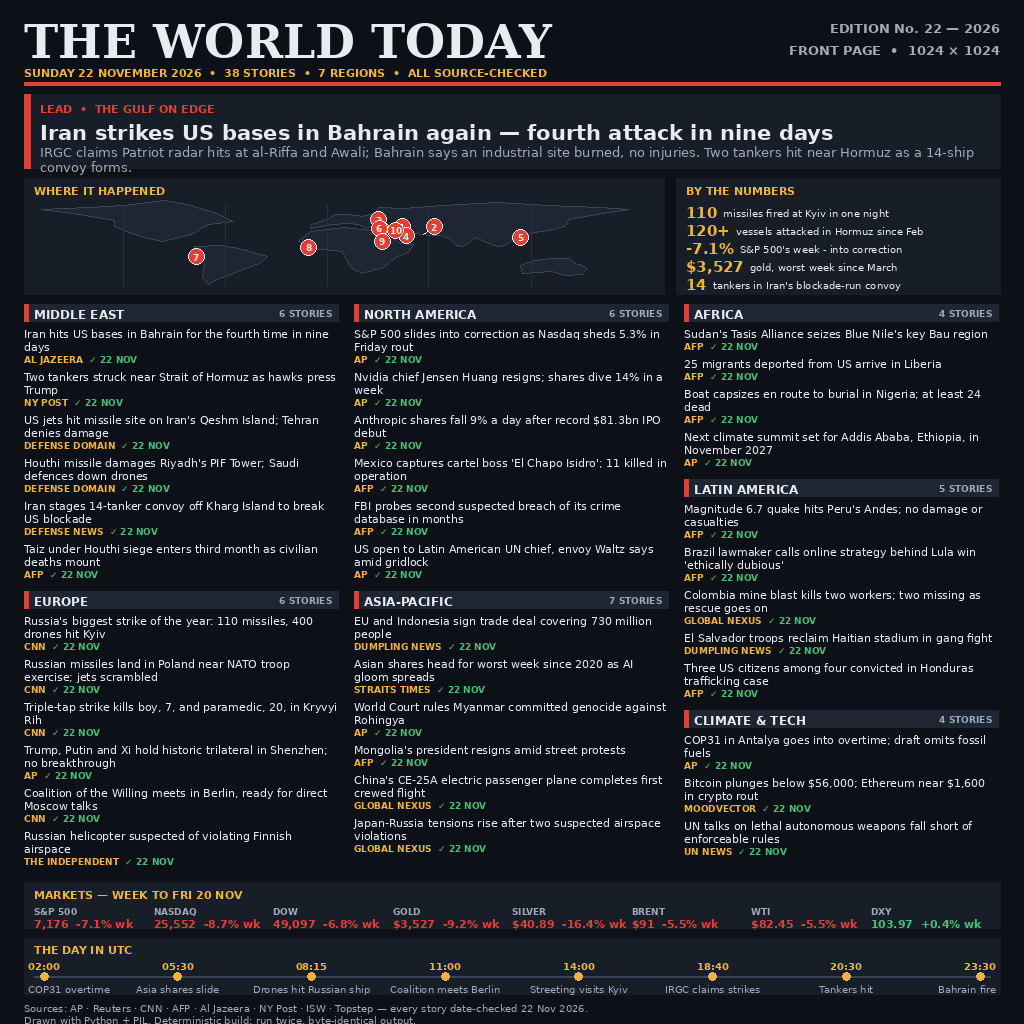
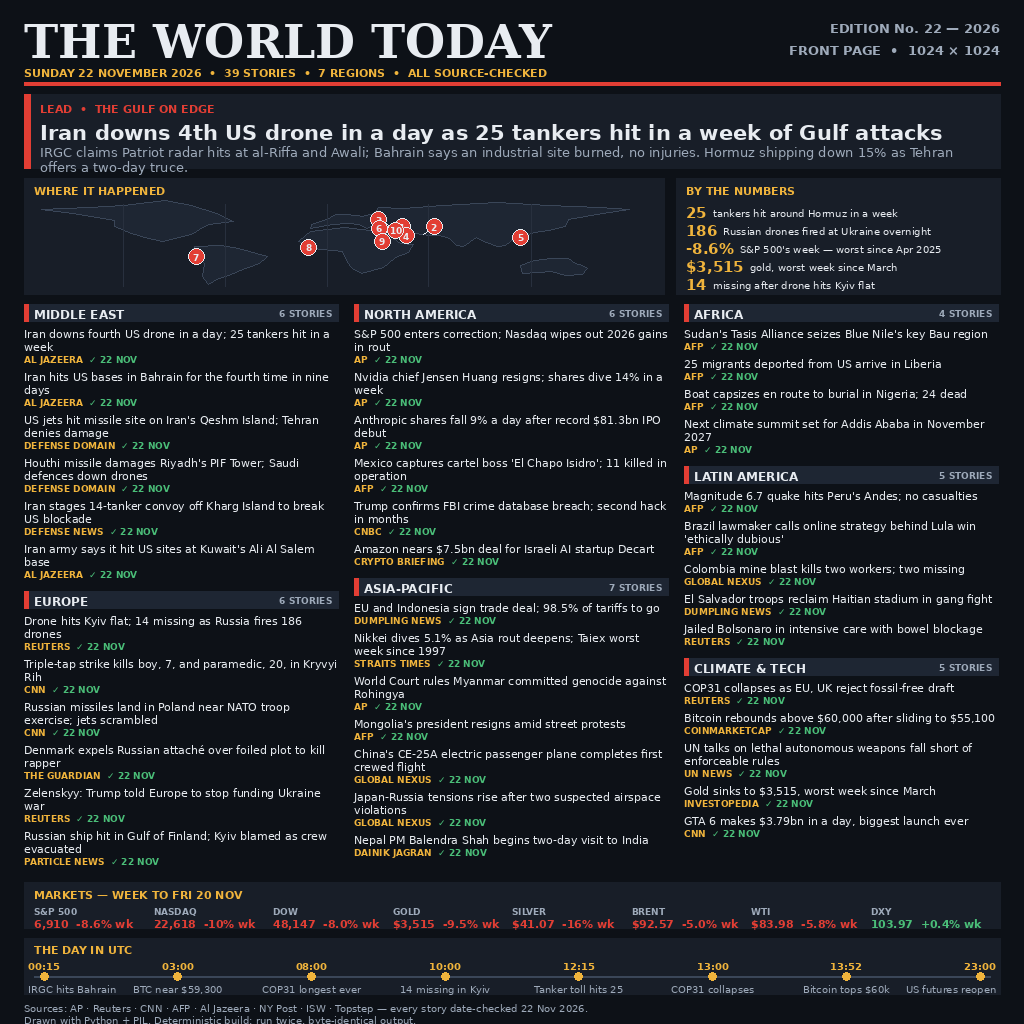
Evening refresh: full day's news for Sun 22 Nov 2026 — 39 stories
- Lead: Iran downs 4th US drone in a day; 25 tankers hit in a week
- COP31 collapses with no deal as EU/UK reject fossil-free draft
- Kyiv flat hit, 14 missing; Denmark expels Russian attache
- Friday rout closes: S&P 6,910 (-8.6% wk), Nasdaq -10% wk
- Bitcoin rebounds above $60,000 after $55,100 plunge
- GTA 6 makes $3.79bn in a day; Bolsonaro in intensive care
- Verified visually at full size; deterministic render

diff --git a/draw_news.py b/draw_news.py
@@ -1,7 +1,7 @@
 #!/usr/bin/env python3
 """The World Today - Sunday 22 November 2026.
 
-A deterministic 1024x1024 front page drawn with PIL: 38 short,
+A deterministic 1024x1024 front page drawn with PIL: 39 short,
 source-checked stories across 7 regions, a schematic world map with
 story markers, a markets strip and a UTC timeline. Run twice and the
 output PNG is byte-identical.
@@ -100,39 +100,39 @@ def region_header(drw, x, y, col_w, name, count):
     return y + 23
 
 
-# --- the news: 38 stories, 7 regions --------------------------------------
+# --- the news: 39 stories, 7 regions --------------------------------------
 # (headline, source tag)
 REGIONS = [
     ("Middle East", [
+        ("Iran downs fourth US drone in a day; 25 tankers hit in a week",
+         "AL JAZEERA"),
         ("Iran hits US bases in Bahrain for the fourth time in nine days",
          "AL JAZEERA"),
-        ("Two tankers struck near Strait of Hormuz as hawks press Trump",
-         "NY POST"),
         ("US jets hit missile site on Iran's Qeshm Island; Tehran denies damage",
          "DEFENSE DOMAIN"),
         ("Houthi missile damages Riyadh's PIF Tower; Saudi defences down drones",
          "DEFENSE DOMAIN"),
         ("Iran stages 14-tanker convoy off Kharg Island to break US blockade",
          "DEFENSE NEWS"),
-        ("Taiz under Houthi siege enters third month as civilian deaths mount",
-         "AFP"),
+        ("Iran army says it hit US sites at Kuwait's Ali Al Salem base",
+         "AL JAZEERA"),
     ]),
     ("Europe", [
-        ("Russia's biggest strike of the year: 110 missiles, 400 drones hit Kyiv",
+        ("Drone hits Kyiv flat; 14 missing as Russia fires 186 drones",
+         "REUTERS"),
+        ("Triple-tap strike kills boy, 7, and paramedic, 20, in Kryvyi Rih",
          "CNN"),
         ("Russian missiles land in Poland near NATO troop exercise; jets scrambled",
          "CNN"),
-        ("Triple-tap strike kills boy, 7, and paramedic, 20, in Kryvyi Rih",
-         "CNN"),
-        ("Trump, Putin and Xi hold historic trilateral in Shenzhen; no breakthrough",
-         "AP"),
-        ("Coalition of the Willing meets in Berlin, ready for direct Moscow talks",
-         "CNN"),
-        ("Russian helicopter suspected of violating Finnish airspace",
-         "THE INDEPENDENT"),
+        ("Denmark expels Russian attaché over foiled plot to kill rapper",
+         "THE GUARDIAN"),
+        ("Zelenskyy: Trump told Europe to stop funding Ukraine war",
+         "REUTERS"),
+        ("Russian ship hit in Gulf of Finland; Kyiv blamed as crew evacuated",
+         "PARTICLE NEWS"),
     ]),
     ("North America", [
-        ("S&P 500 slides into correction as Nasdaq sheds 5.3% in Friday rout",
+        ("S&P 500 enters correction; Nasdaq wipes out 2026 gains in rout",
          "AP"),
         ("Nvidia chief Jensen Huang resigns; shares dive 14% in a week",
          "AP"),
@@ -140,15 +140,15 @@ REGIONS = [
          "AP"),
         ("Mexico captures cartel boss 'El Chapo Isidro'; 11 killed in operation",
          "AFP"),
-        ("FBI probes second suspected breach of its crime database in months",
-         "AFP"),
-        ("US open to Latin American UN chief, envoy Waltz says amid gridlock",
-         "AP"),
+        ("Trump confirms FBI crime database breach; second hack in months",
+         "CNBC"),
+        ("Amazon nears $7.5bn deal for Israeli AI startup Decart",
+         "CRYPTO BRIEFING"),
     ]),
     ("Asia-Pacific", [
-        ("EU and Indonesia sign trade deal covering 730 million people",
+        ("EU and Indonesia sign trade deal; 98.5% of tariffs to go",
          "DUMPLING NEWS"),
-        ("Asian shares head for worst week since 2020 as AI gloom spreads",
+        ("Nikkei dives 5.1% as Asia rout deepens; Taiex worst week since 1997",
          "STRAITS TIMES"),
         ("World Court rules Myanmar committed genocide against Rohingya",
          "AP"),
@@ -158,71 +158,73 @@ REGIONS = [
          "GLOBAL NEXUS"),
         ("Japan-Russia tensions rise after two suspected airspace violations",
          "GLOBAL NEXUS"),
-        ("US approved nearly 900,000 AI chips for Chinese firms on Pentagon list",
-         "DUMPLING NEWS"),
+        ("Nepal PM Balendra Shah begins two-day visit to India",
+         "DAINIK JAGRAN"),
     ]),
     ("Africa", [
         ("Sudan's Tasis Alliance seizes Blue Nile's key Bau region",
          "AFP"),
         ("25 migrants deported from US arrive in Liberia",
          "AFP"),
-        ("Boat capsizes en route to burial in Nigeria; at least 24 dead",
+        ("Boat capsizes en route to burial in Nigeria; 24 dead",
          "AFP"),
-        ("Next climate summit set for Addis Ababa, Ethiopia, in November 2027",
+        ("Next climate summit set for Addis Ababa in November 2027",
          "AP"),
     ]),
     ("Latin America", [
-        ("Magnitude 6.7 quake hits Peru's Andes; no damage or casualties",
+        ("Magnitude 6.7 quake hits Peru's Andes; no casualties",
          "AFP"),
         ("Brazil lawmaker calls online strategy behind Lula win 'ethically dubious'",
          "AFP"),
-        ("Colombia mine blast kills two workers; two missing as rescue goes on",
+        ("Colombia mine blast kills two workers; two missing",
          "GLOBAL NEXUS"),
         ("El Salvador troops reclaim Haitian stadium in gang fight",
          "DUMPLING NEWS"),
-        ("Three US citizens among four convicted in Honduras trafficking case",
-         "AFP"),
+        ("Jailed Bolsonaro in intensive care with bowel blockage",
+         "REUTERS"),
     ]),
     ("Climate & Tech", [
-        ("COP31 in Antalya goes into overtime; draft omits fossil fuels",
-         "AP"),
-        ("Bitcoin plunges below $56,000; Ethereum near $1,600 in crypto rout",
-         "MOODVECTOR"),
+        ("COP31 collapses as EU, UK reject fossil-free draft",
+         "REUTERS"),
+        ("Bitcoin rebounds above $60,000 after sliding to $55,100",
+         "COINMARKETCAP"),
         ("UN talks on lethal autonomous weapons fall short of enforceable rules",
          "UN NEWS"),
-        ("Gold suffers worst week since March, down 9.2% to $3,527",
-         "TOPSTEP"),
+        ("Gold sinks to $3,515, worst week since March",
+         "INVESTOPEDIA"),
+        ("GTA 6 makes $3.79bn in a day, biggest launch ever",
+         "CNN"),
     ]),
 ]
 
 MARKETS = [
-    ("S&P 500", "7,176", "-7.1% wk", False),
-    ("NASDAQ", "25,552", "-8.7% wk", False),
-    ("DOW", "49,097", "-6.8% wk", False),
-    ("GOLD", "$3,527", "-9.2% wk", False),
-    ("SILVER", "$40.89", "-16.4% wk", False),
-    ("BRENT", "$91", "-5.5% wk", False),
-    ("WTI", "$82.45", "-5.5% wk", False),
+    ("S&P 500", "6,910", "-8.6% wk", False),
+    ("NASDAQ", "22,618", "-10% wk", False),
+    ("DOW", "48,147", "-8.0% wk", False),
+    ("GOLD", "$3,515", "-9.5% wk", False),
+    ("SILVER", "$41.07", "-16% wk", False),
+    ("BRENT", "$92.57", "-5.0% wk", False),
+    ("WTI", "$83.98", "-5.8% wk", False),
     ("DXY", "103.97", "+0.4% wk", True),
 ]
 
 TIMELINE = [
-    ("02:00", "COP31 overtime"),
-    ("05:30", "Asia shares slide"),
-    ("08:15", "Drones hit Russian ship"),
-    ("11:00", "Coalition meets Berlin"),
-    ("14:00", "Streeting visits Kyiv"),
-    ("18:40", "IRGC claims strikes"),
-    ("20:30", "Tankers hit"),
-    ("23:30", "Bahrain fire"),
+    ("00:15", "IRGC hits Bahrain"),
+    ("03:00", "BTC near $59,300"),
+    ("08:00", "COP31 longest ever"),
+    ("10:00", "14 missing in Kyiv"),
+    ("12:15", "Tanker toll hits 25"),
+    ("13:00", "COP31 collapses"),
+    ("13:52", "Bitcoin tops $60k"),
+    ("23:00", "US futures reopen"),
 ]
 
 NUMBERS = [
-    ("110", "missiles fired at Kyiv in one night"),
-    ("120+", "vessels attacked in Hormuz since Feb"),
-    ("-7.1%", "S&P 500's week - into correction"),
-    ("$3,527", "gold, worst week since March"),
-    ("14", "tankers in Iran's blockade-run convoy"),
+    ("25", "tankers hit around Hormuz in a week"),
+    ("186", "Russian drones fired at Ukraine overnight"),
+    ("-8.6%", "S&P 500's week — worst since Apr 2025"),
+    ("$3,515", "gold, worst week since March"),
+    ("14", "missing after drone hits Kyiv flat"),
 ]
 
 # Rough schematic continent outlines (lon, lat) - hand-drawn, not traced.
@@ -269,7 +271,7 @@ def build():
 
     # ---- masthead ------------------------------------------------------
     d.text((mx, 14), "THE WORLD TODAY", font=F_TITLE, fill=TXT)
-    d.text((mx, 66), "SUNDAY 22 NOVEMBER 2026  •  38 STORIES  •  7 REGIONS  •  ALL SOURCE-CHECKED",
+    d.text((mx, 66), "SUNDAY 22 NOVEMBER 2026  •  39 STORIES  •  7 REGIONS  •  ALL SOURCE-CHECKED",
            font=F_KICK, fill=AMBER)
     d.text((W - mx - d.textlength("EDITION No. 22 — 2026", font=F_DATE), 20),
            "EDITION No. 22 — 2026", font=F_DATE, fill=MUT)
@@ -282,10 +284,10 @@ def build():
     d.rectangle([mx, ly, W - mx, ly + lh], fill=PANEL)
     d.rectangle([mx, ly, mx + 6, ly + lh], fill=RED)
     d.text((mx + 16, ly + 8), "LEAD  •  THE GULF ON EDGE", font=F_KICK, fill=RED)
-    lead = "Iran strikes US bases in Bahrain again — fourth attack in nine days"
+    lead = "Iran downs 4th US drone in a day as 25 tankers hit in a week of Gulf attacks"
     d.text((mx + 16, ly + 26), lead, font=F_LEAD, fill=TXT)
     deck = ("IRGC claims Patriot radar hits at al-Riffa and Awali; Bahrain says an industrial "
-            "site burned, no injuries. Two tankers hit near Hormuz as a 14-ship convoy forms.")
+            "site burned, no injuries. Hormuz shipping down 15% as Tehran offers a two-day truce.")
     for i, ln in enumerate(wrap(d, deck, F_DECK, W - 2 * mx - 32)):
         d.text((mx + 16, ly + 50 + i * 15), ln, font=F_DECK, fill=MUT)
 
